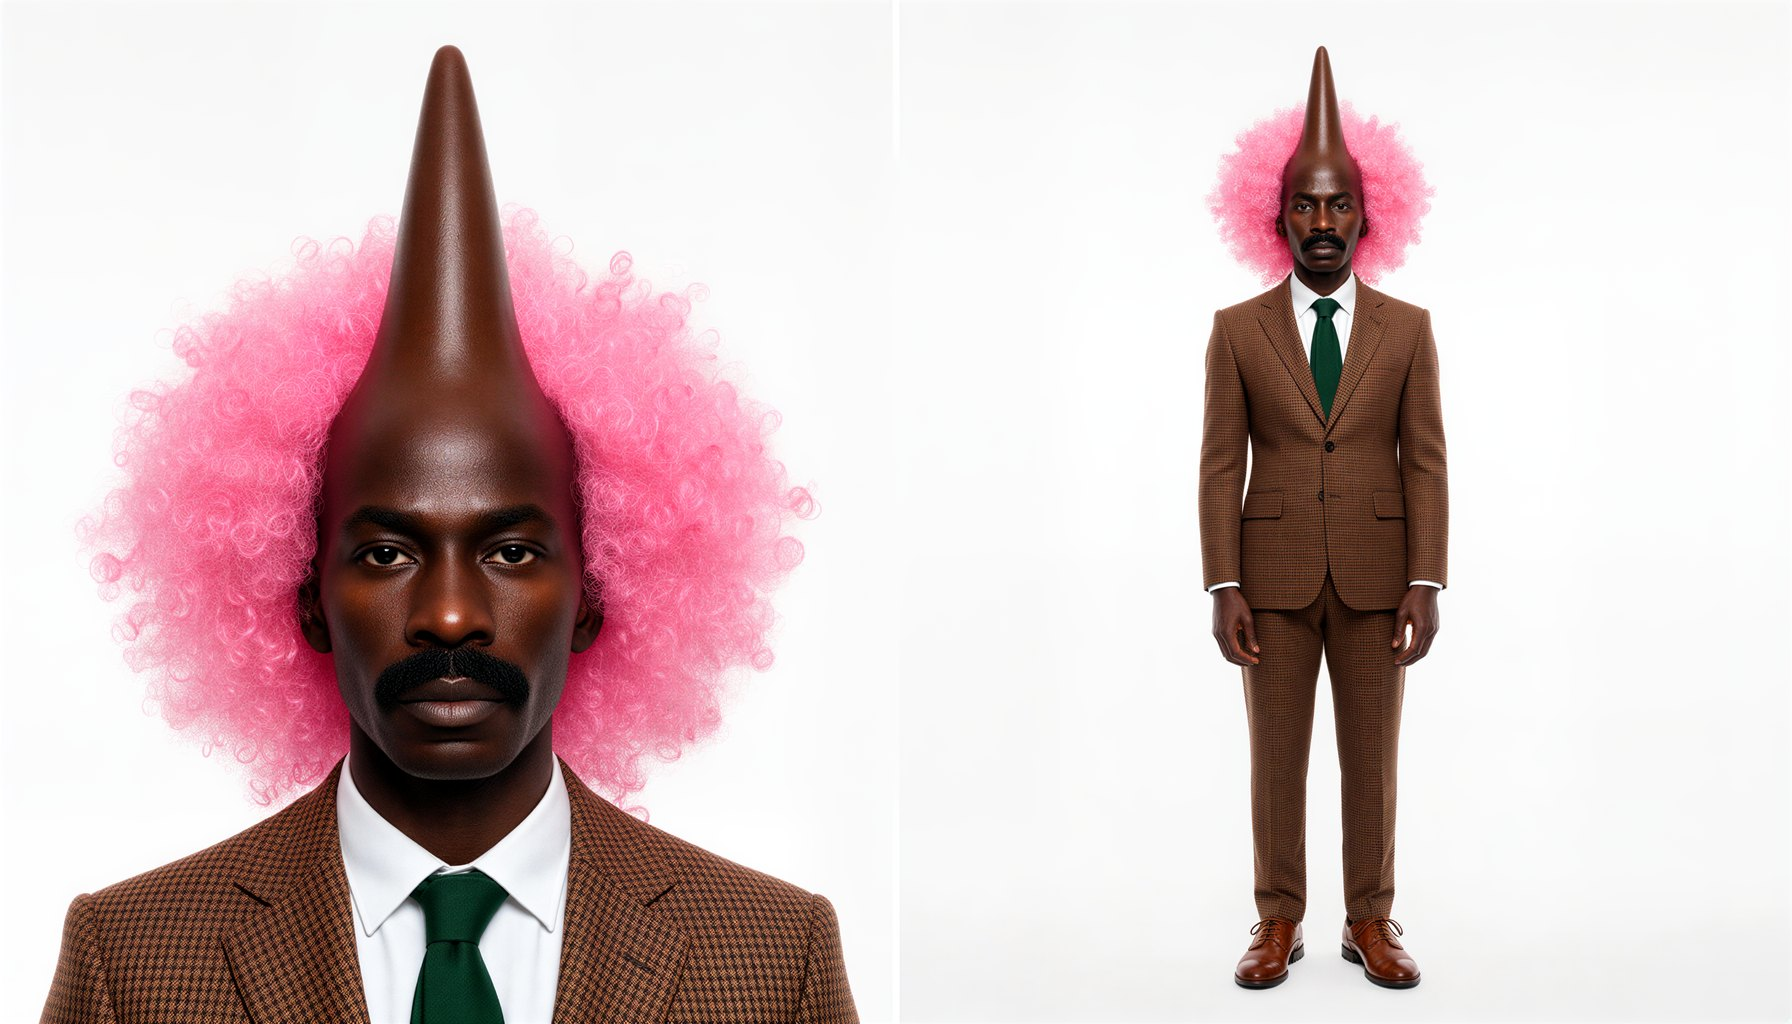
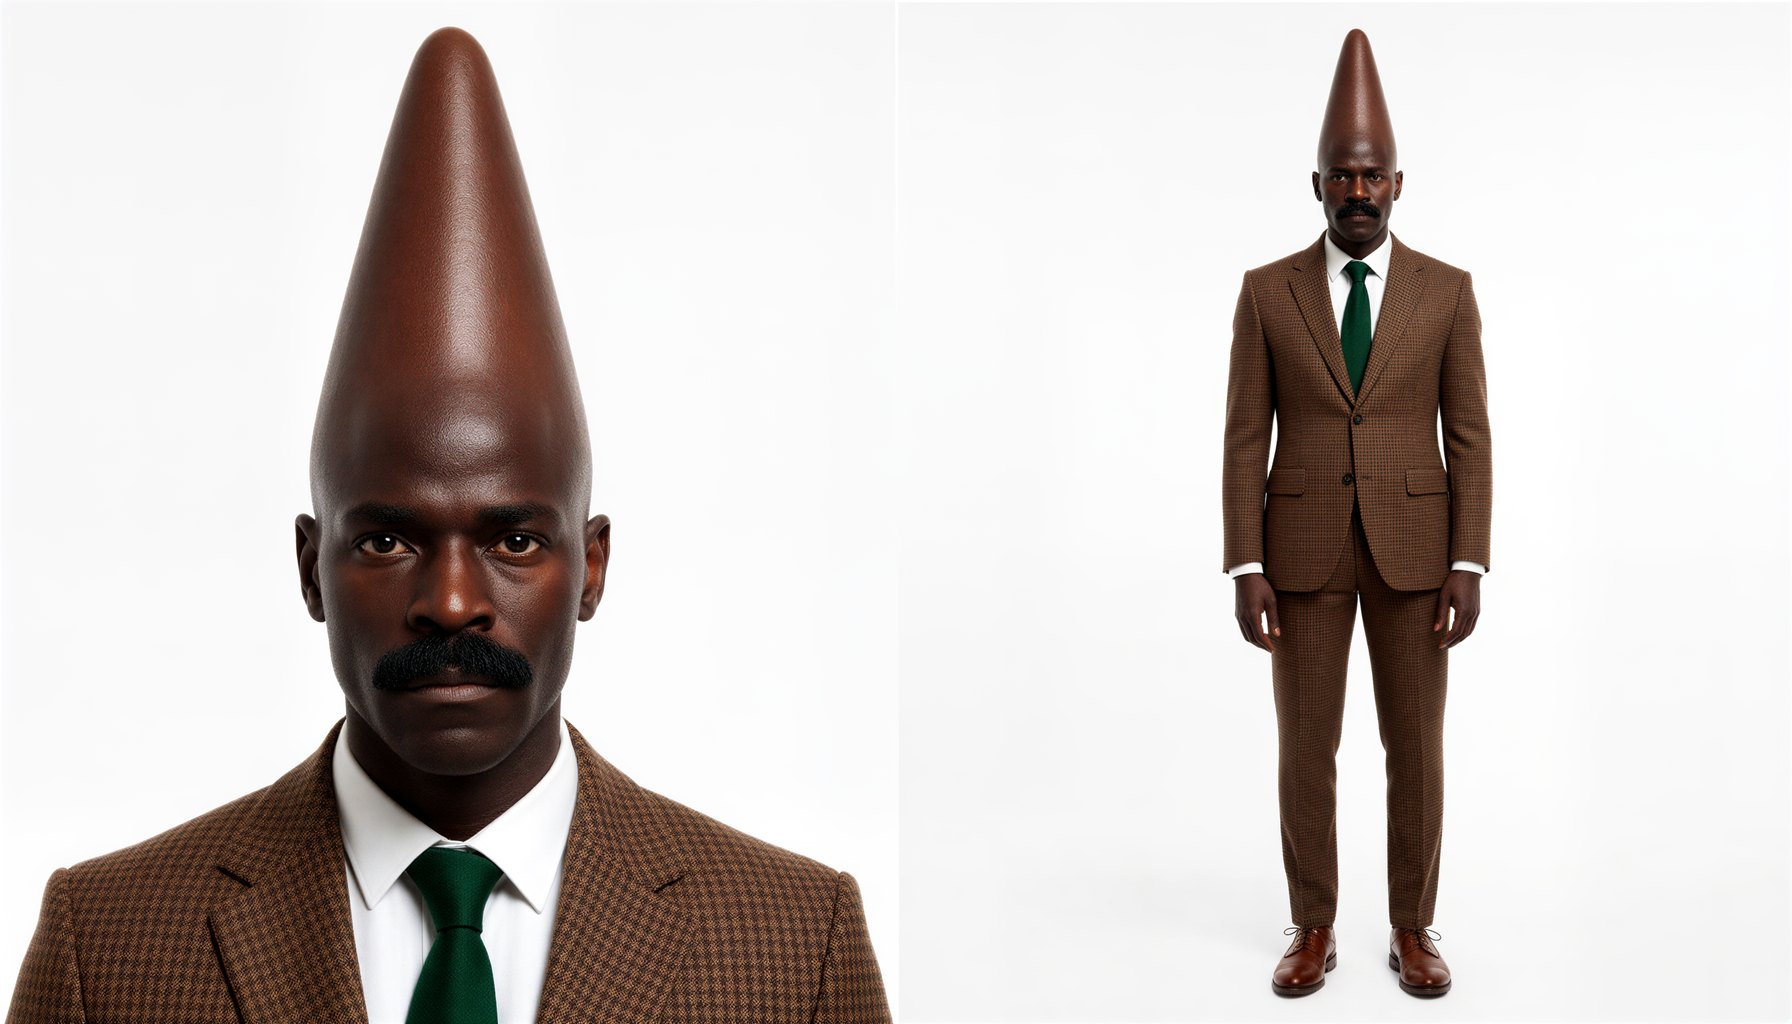
AI Influencer: Cone Head Carl gets a classic Conehead skull shape and no wig
Claude-Session: https://claude.ai/code/session_01Pn4hNDRWRVhm438Rr9UBh8

diff --git a/js/influencer.js b/js/influencer.js
@@ -101,7 +101,7 @@
       ["standard", "Standard", "h", ""], ["long", "Long", "h", "long face"], ["tiny", "Tiny", "hb", "comically tiny head"],
       ["forehead", "High forehead", "hb", "very high forehead"], ["caveman", "Caveman", "hb", "heavy caveman brow"],
       ["gigachad", "Gigachad", "hb", "chiseled gigachad jawline"], ["megajaw", "Mega jaw", "hb", "enormous jaw"],
-      ["round", "Round", "h", "round face"], ["square", "Square", "h", "square face"], ["heart", "Heart", "h", "heart-shaped face"], ["dome", "Cone dome", "hb", "an absurdly tall elongated cone-shaped bald dome skull rising high above the forehead, the dome as tall as the whole face, in exactly the same skin tone as the face"], ["herojaw", "Hero jaw", "hb", "a cartoonish oversized hero jaw with a deep cleft chin"]] },
+      ["round", "Round", "h", "round face"], ["square", "Square", "h", "square face"], ["heart", "Heart", "h", "heart-shaped face"], ["dome", "Cone dome", "hb", "a classic Conehead skull: the whole bald head elongated straight upward into one tall smooth cone, as wide as the face above the ears and tapering to a softly rounded tip, as tall as the face again, in exactly the same skin tone as the face with no seam"], ["herojaw", "Hero jaw", "hb", "a cartoonish oversized hero jaw with a deep cleft chin"]] },
     { id: "neck", label: "Neck", max: 1, visual: true, options: [
       ["standard", "Standard", "h", "a normal neck"], ["thin", "Pencil neck", "hb", "a very thin pencil neck"], ["long", "Long", "hb", "a long neck"], ["column", "Column", "hb", "a thick column neck"], ["short", "Short", "h", "a short neck"], ["giraffe", "Giraffe", "hb", "an absurdly long, thin human neck, three times normal length, with normal smooth skin"]] },
     { id: "eyeshape", label: "Eye shape", max: 1, visual: true, options: [
@@ -165,8 +165,8 @@
     // --- Extreme casting (Higgsfield-style "signature" characters)
     { id: "earmuff-auntie", name: "Long Neck Auntie", tier: "total", view: "card", t: { gender: ["female"], age: ["senior"], ethnicity: ["african"], skin: ["brown"], build: ["slim"], neck: ["giraffe"], hair: ["tufts"], haircolor: ["grey"], accessories: ["glasses"] },
       x: "Signature: an absurdly long, thin human neck rising far above her shoulders, smooth brown skin, bald crown with big fluffy grey side tufts of hair over her ears, thin wire glasses. Outfit: olive suede jacket over a brown plaid flannel shirt, brown leather belt, olive trousers" },
-    { id: "cone-carl", name: "Cone Head Carl", tier: "total", view: "card", t: { gender: ["male"], age: ["adult"], ethnicity: ["african"], skin: ["brown"], build: ["slim"], head: ["dome"], hair: ["afro"], haircolor: ["pink"], facialhair: ["moustache"], neck: ["long"] },
-      x: "Signature: an absurdly tall cone-shaped bald dome skull rising high above the forehead, the same deep dark brown skin as his face, ringed at the back by a big pink curly afro, thick black moustache. Outfit: brown houndstooth tweed blazer, white shirt, dark green tie" },
+    { id: "cone-carl", name: "Cone Head Carl", tier: "total", view: "card", t: { gender: ["male"], age: ["adult"], ethnicity: ["african"], skin: ["brown"], build: ["slim"], head: ["dome"], hair: ["bald"], facialhair: ["moustache"] },
+      x: "Signature: a classic Conehead skull, his entire bald head elongated straight upward into one tall smooth cone, as wide as his face just above the ears and tapering evenly to a softly rounded tip, the cone as tall as his face again, all one piece of the same deep dark brown skin with no seam, no hair at all, thick black moustache. Outfit: brown houndstooth tweed blazer, white shirt, dark green tie" },
     { id: "caveman-ceo", name: "Caveman CEO", tier: "total", view: "card", t: { gender: ["male"], age: ["mature"], ethnicity: ["mideast"], skin: ["tan"], build: ["heavy"], head: ["caveman"], hair: ["long"], haircolor: ["black"], features: ["unibrow"], style: ["suits"] },
       x: "Signature: caveman skull with a massive protruding brow ridge and one thick unibrow, deep-set eyes, heavy jaw, contrasted with sleek long jet-black hair in a perfect center part. Outfit: chocolate-brown wide-lapel 70s suit, cream shirt, patterned brown tie" },
     { id: "lampshade-lou", name: "Lampshade Lou", tier: "total", view: "card", t: { gender: ["male"], age: ["adult"], ethnicity: ["european"], skin: ["fair"], build: ["heavy"], head: ["megajaw"], neck: ["column"], hair: ["lampshade"], haircolor: ["platinum"], accessories: ["glasses"] },
